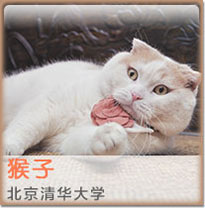
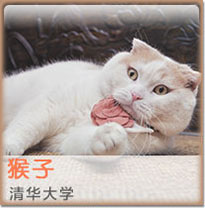
UPDATE

Changed region(s): [[0.0293, 0.8942, 0.5268, 0.9808]]

diff --git a/server/dc/protected/views/social/activity_view_655.php b/server/dc/protected/views/social/activity_view_655.php
@@ -34,7 +34,7 @@ $signPackage = $jssdk->GetSignPackage();
 		</div>
 		<div class="introduce">
 			<div class="pet_name">代粮喵：<span>猴子和ta的小伙伴</span></div>
-			<div class="pet_place">代粮地点：<span>北京清华大学</span></div>
+			<div class="pet_place">代粮地点：<span>清华大学</span></div>
 			<div class="pet_weibo"><a href="http://weibo.com/u/1411960057?topnav=1&wvr=6&topsug=1">新浪微博：<span><u>扑倒所有喵</u></span></a></div>
 		</div>
 		<div class="act2_petHead">
